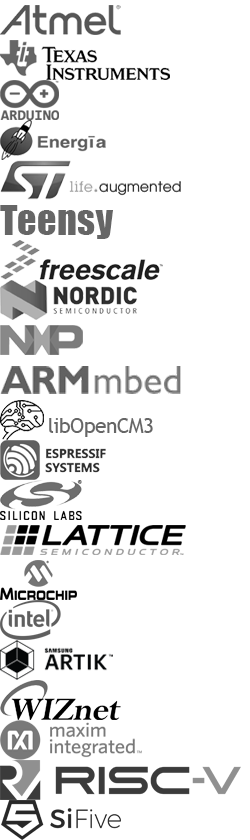
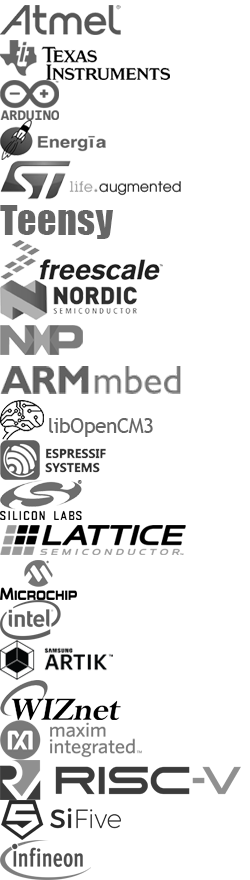
Add Infineon

Changed region(s): [[0.0, 0.0, 0.952, 1.0], [0.784, 0.9286, 0.812, 0.9595]]

diff --git a/app/scripts/app.js b/app/scripts/app.js
@@ -18,25 +18,26 @@
   'use strict';
 
   angular.module('siteApp', [
-    'ngAnimate',
-    'ngResource',
-    'ngRoute',
-    'ngSanitize',
-    'ngTouch',
-    'ui.bootstrap',
-    'viewhead',
-    'angulartics',
-    'angulartics.google.analytics',
-    'hljs',
-    'relativeDate',
-    'ngTable',
-    'ngclipboard',
-    'duScroll'
-  ])
+      'ngAnimate',
+      'ngResource',
+      'ngRoute',
+      'ngSanitize',
+      'ngTouch',
+      'ui.bootstrap',
+      'viewhead',
+      'angulartics',
+      'angulartics.google.analytics',
+      'hljs',
+      'relativeDate',
+      'ngTable',
+      'ngclipboard',
+      'duScroll'
 
-  .constant('siteConfig', {
-    apiURL: (parseInt(location.port) === 9013 ? 'http://localhost:8080' :
-      'https://api.platformio.org')
-  });
+    ])
+
+    .constant('siteConfig', {
+      apiURL: (parseInt(location.port) === 9013 ? 'http://localhost:8080' :
+        'https://api.platformio.org')
+    });
 
 })();

diff --git a/app/views/brands.html b/app/views/brands.html
@@ -6,8 +6,9 @@
         <li><div class="brands brand-mbed"></div></li>
         <li><div class="brands brand-atmel"></div></li>
         <li><div class="brands brand-espresiff"></div></li>
-        <li><div class="brands brand-intel"></div></li>
         <li><div class="brands brand-freescale"></div></li>
+        <li><div class="brands brand-infineon"></div></li>
+        <li><div class="brands brand-intel"></div></li>
         <li><div class="brands brand-lattice"></div></li>
         <li><div class="brands brand-maxim"></div></li>
         <li><div class="brands brand-microchip"></div></li>

diff --git a/app/styles/main.css b/app/styles/main.css
@@ -736,6 +736,10 @@
   width: 122px;
 }
 
+.brand-infineon {
+  background-position: 0 -840px;
+  width: 91px;
+}
 
 /* Miscellaneous */
 
